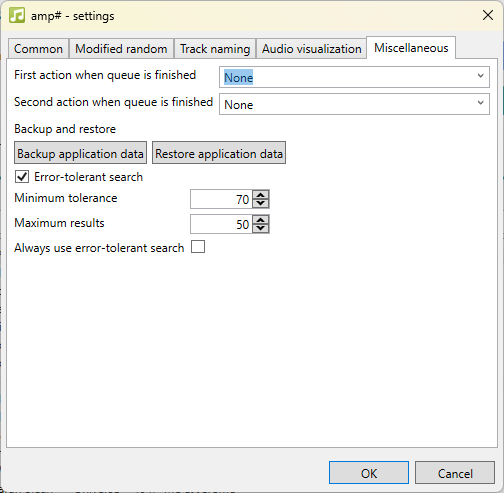
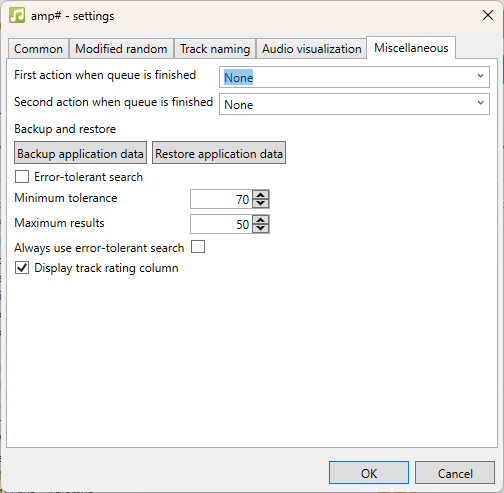
Update the documentation.

diff --git a/Help/amp-fi/docs/settings.md b/Help/amp-fi/docs/settings.md
@@ -118,6 +118,9 @@ Asettaa käyttöön virhesietoisen haun kappaleiden suodatukseen käyttäen *Fuz
 *Tulosjoukon koko* määrittää suodatettujen tuloksien maksimimäärän.
 *Käytä aina virhesietoista hakua* määrittää, onko *FuzzyWuzzy*-algoritmi aina käytössä kappaleiden suodatukseen, muussa tapauksessa algoritmia käytetään ainoastaan, jos normaalisuodatus ei palauta yhtään tulosta.
 
+**Näytä kappaleen arvostelusarake**
+Ilmaisee, näytetäänkö kappaleen arvostelu soittolistan sarakkeena.
+
 *Sekalaista-välilehti*
 
 ![image](img/settings5.png)

diff --git a/Help/amp-en/docs/settings.md b/Help/amp-en/docs/settings.md
@@ -118,6 +118,10 @@ The *Minimum tolerance* defines the filtering tolerance between 0 to 100. The *M
 
 The *Always use error-tolerant search* defines if the *FuzzyWuzzy* algorithm should always be used for filtering, otherwise the algorithm is only used if the normal filtering yields no results.
 
+**Display track rating column**
+
+Indicates if the track rating column should be displayed in the playlist.
+
 *The Miscellaneous tab*
 
 ![image](img/settings5.png)
